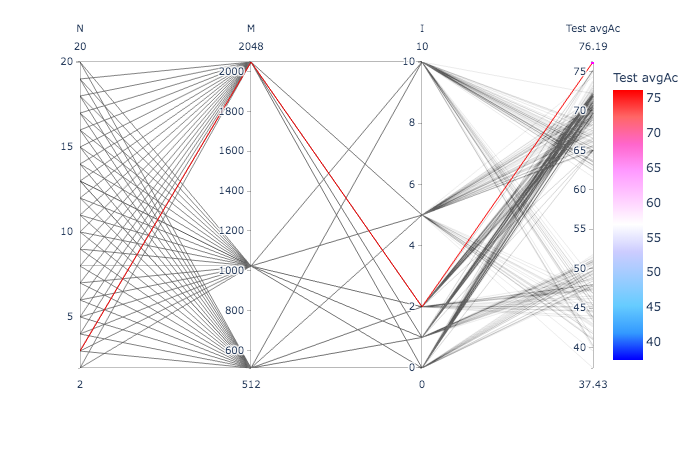
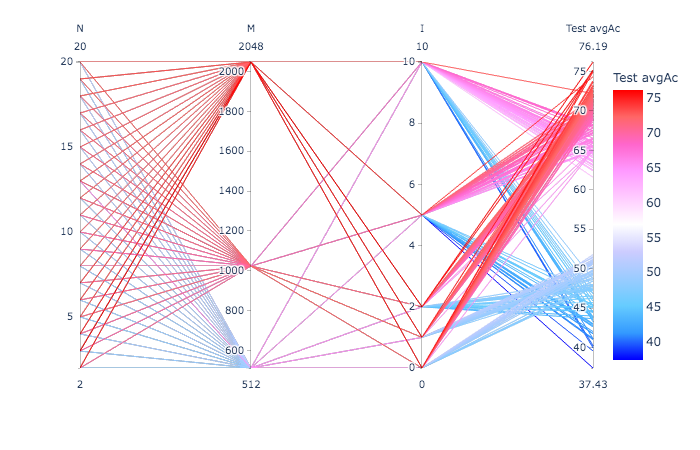
include complete parallel plot

diff --git a/exerc01/README.md b/exerc01/README.md
@@ -170,10 +170,12 @@ With parallel coordinates the summary can be visualized as follows:
 
     python summary-parallel.py
 
+![](summary-parallel.png)
+
 The parameter combination with the highest test average accuracy is
 highlighted in this plot:
 
-![](summary-parallel.png)
+![](summary-parallel1.png)
 
 while the following shows a few of the combinations corresponding to the
 highest test average accuracies:
